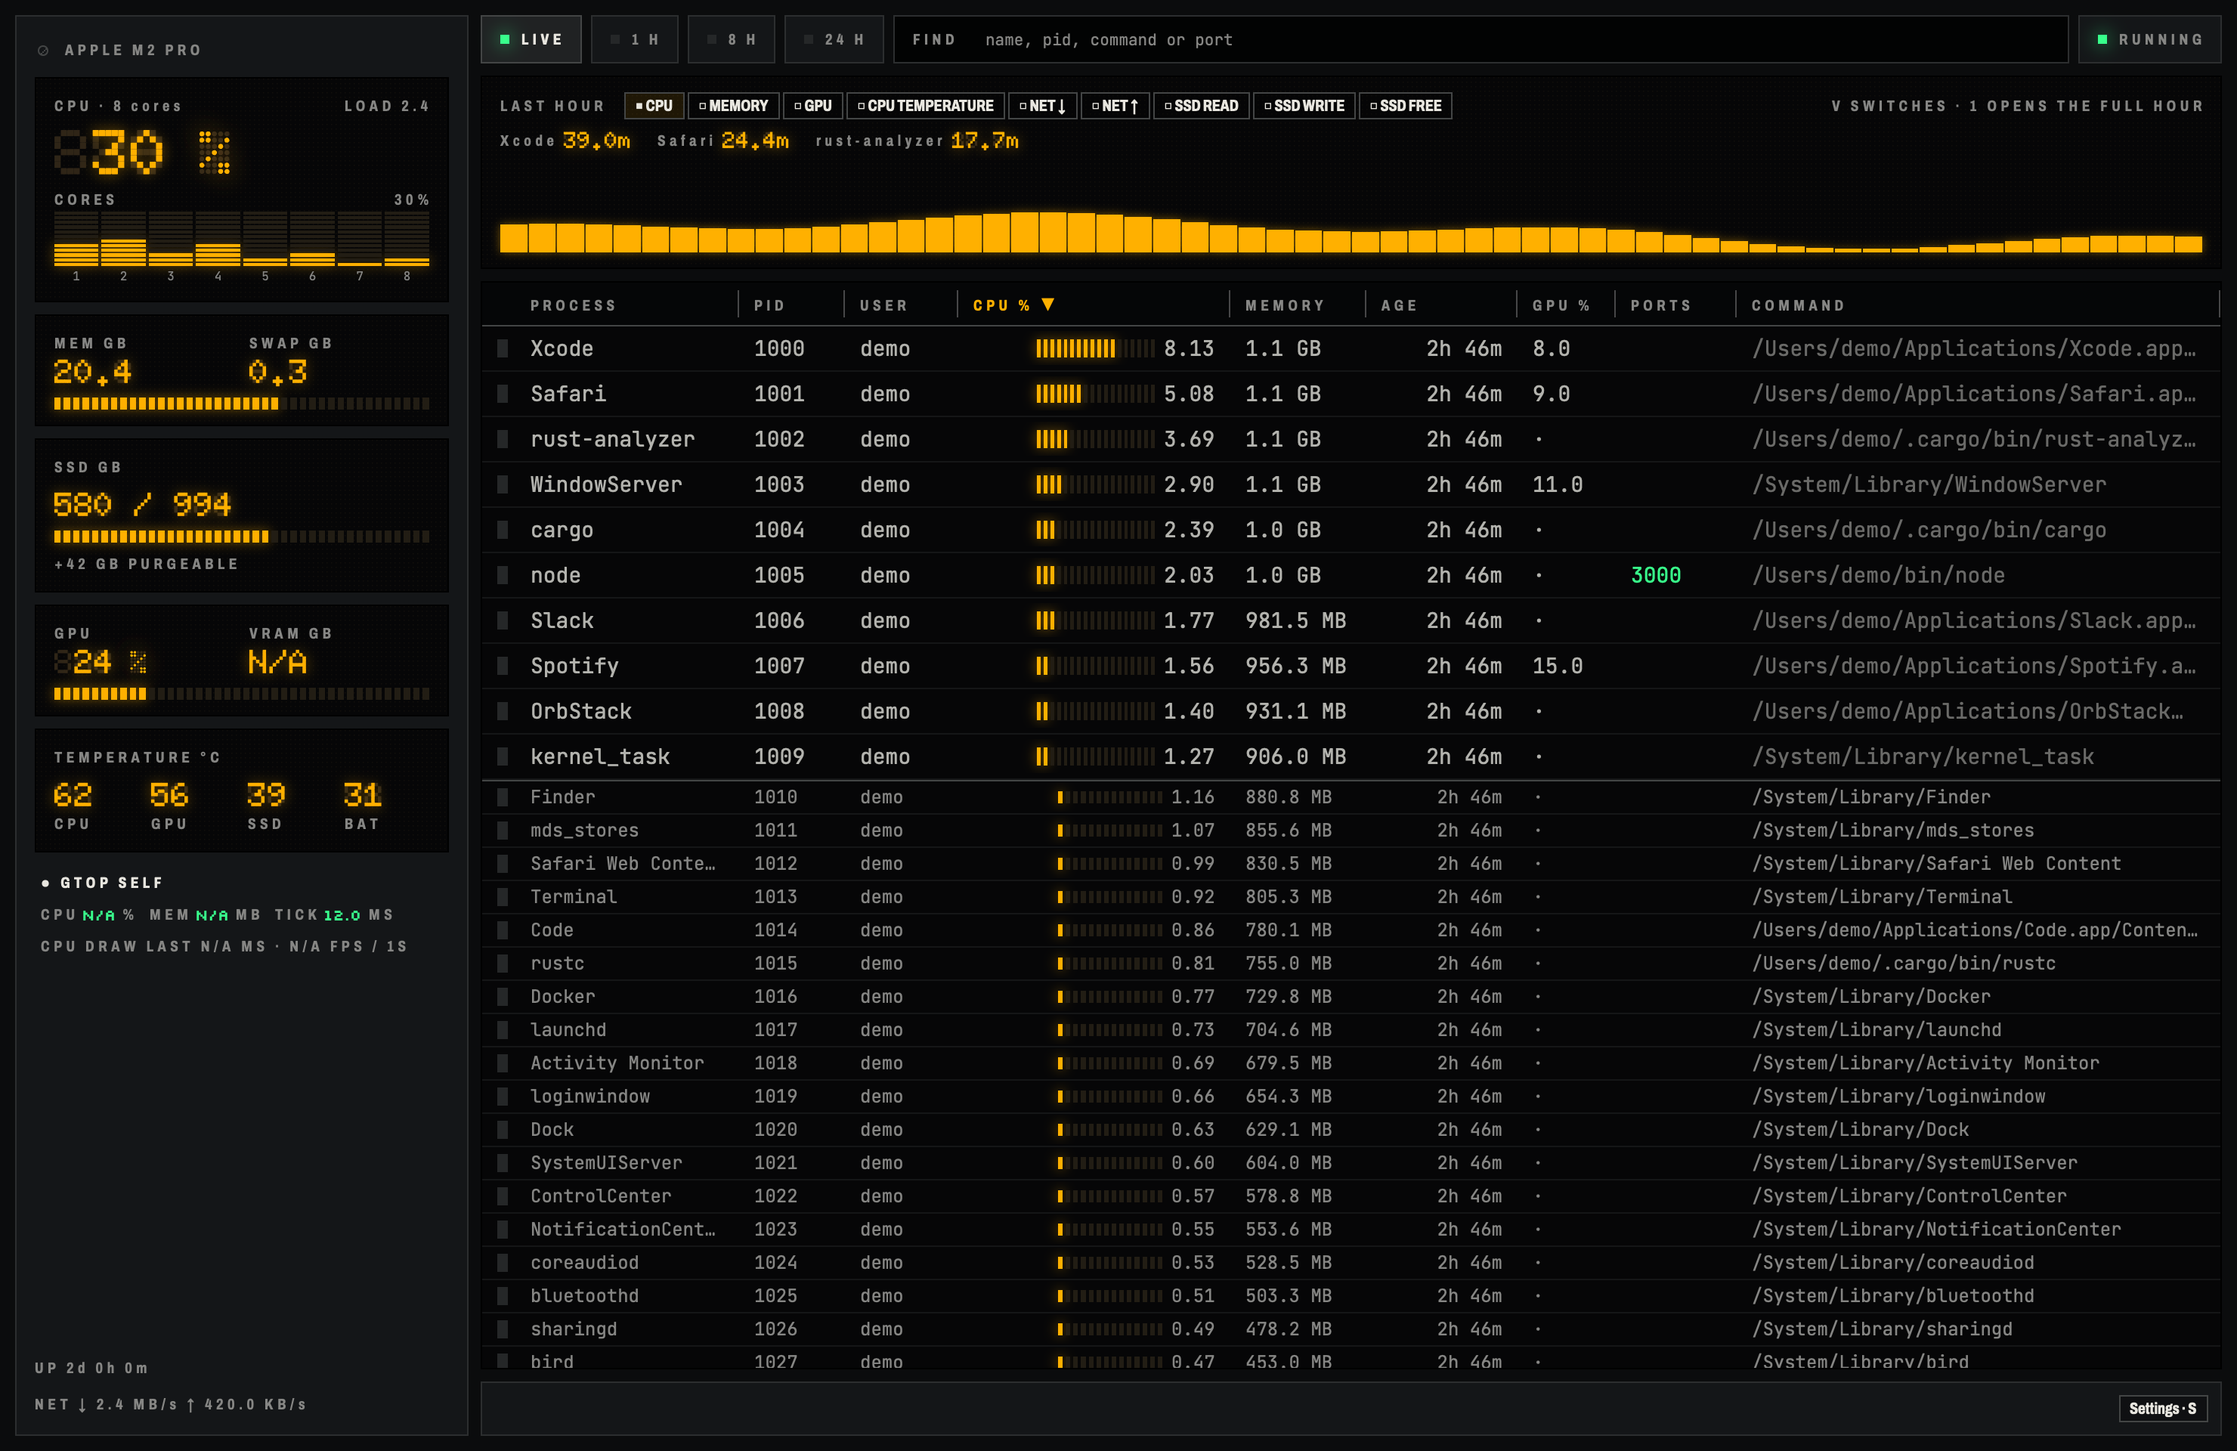
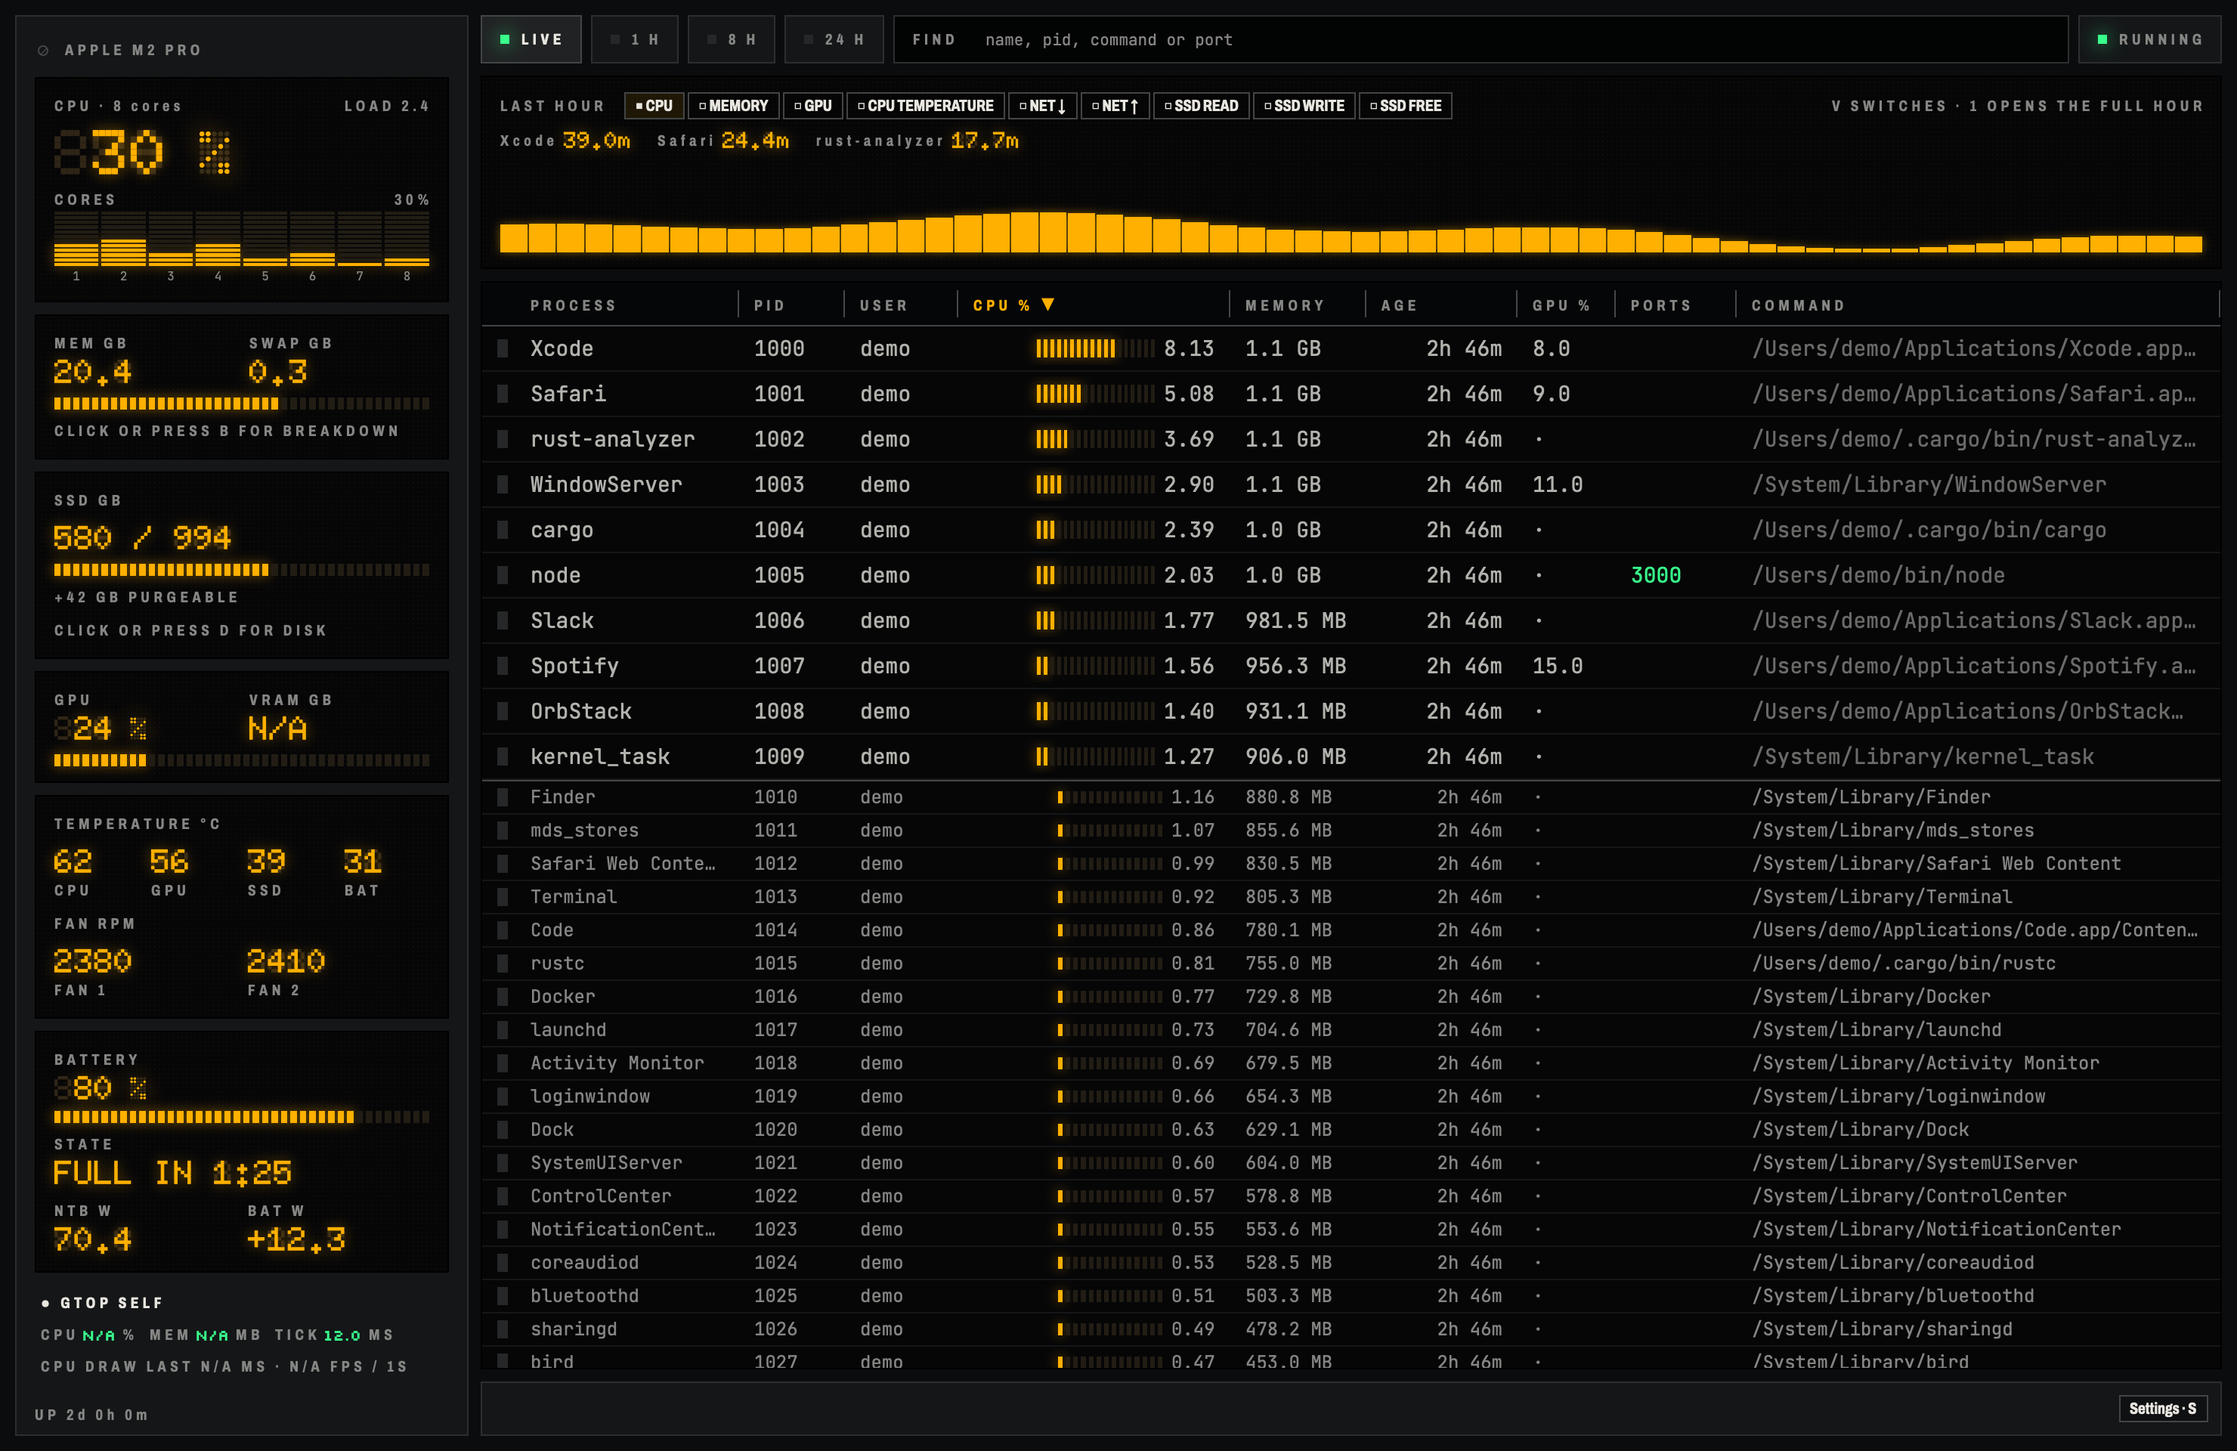
feat(temperature): show fan speeds from AppleSMC
Read F<n>Ac and F<n>Mx through the existing SMC connection and show
each fan under the temperatures. A fan above 90 % of its top speed
lights hot; a stopped fan reads OFF. Fanless Macs show no fan row.

Changed region(s): [[0.0, 0.3125, 0.1865, 0.6875], [0.0311, 0.7188, 0.1554, 0.9062], [0.0, 0.9375, 0.1554, 1.0]]

diff --git a/crates/gtop-core/src/monitoring/smc.rs b/crates/gtop-core/src/monitoring/smc.rs
@@ -1,4 +1,5 @@
-//! Read-only AppleSMC GPU temperature discovery. Key names vary by chip.
+//! Read-only AppleSMC GPU temperature and fan speed discovery. Key names vary
+//! by chip.
 
 use objc2_core_foundation::{CFDictionary, CFRetained};
 use objc2_io_kit::{
@@ -47,10 +48,21 @@ impl Message {
     }
 }
 
+/// An SMC key and its type and size
+type SmcKey = (u32, KeyInfo);
+
+/// SMC keys of one fan: its current speed and, when the SMC has it, its top speed
+#[derive(Debug)]
+struct FanKeys {
+    actual: SmcKey,
+    max: Option<SmcKey>,
+}
+
 #[derive(Debug)]
 pub(super) struct GpuTemperature {
     connection: u32,
     keys: Vec<(u32, KeyInfo)>,
+    fans: Vec<FanKeys>,
 }
 
 impl Drop for GpuTemperature {
@@ -90,7 +102,9 @@ impl GpuTemperature {
         let mut sensor = Self {
             connection,
             keys: Vec::new(),
+            fans: Vec::new(),
         };
+        let mut fans: [(Option<SmcKey>, Option<SmcKey>); 10] = [(None, None); 10];
         let count_key = u32::from_be_bytes(*b"#KEY");
         let info = sensor.info(count_key)?;
         let count = u32::from_be_bytes(sensor.read(count_key, info)?.bytes[..4].try_into().ok()?);
@@ -103,7 +117,16 @@ impl GpuTemperature {
                 continue;
             };
             let key = entry.key;
-            if gpu_key(key) {
+            if let Some((index, is_max)) = fan_key(key) {
+                if let Some(info) = sensor.info(key).filter(|&info| rpm_format(info)) {
+                    let slot = &mut fans[index];
+                    if is_max {
+                        slot.1 = Some((key, info));
+                    } else {
+                        slot.0 = Some((key, info));
+                    }
+                }
+            } else if gpu_key(key) {
                 if let Some(info) = sensor.info(key) {
                     if matches!((info.kind.to_be_bytes(), info.size), (kind, 4) if kind == *b"flt ")
                         || (info.kind == u32::from_be_bytes(*b"sp78") && info.size == 2)
@@ -113,7 +136,32 @@ impl GpuTemperature {
                 }
             }
         }
+        sensor.fans = fans
+            .into_iter()
+            .filter_map(|(actual, max)| {
+                Some(FanKeys {
+                    actual: actual?,
+                    max,
+                })
+            })
+            .collect();
         Some(sensor)
+    }
+
+    /// Current speed of every fan, in fan index order; empty on fanless Macs
+    pub(super) fn fans(&self) -> Vec<super::Fan> {
+        self.fans
+            .iter()
+            .filter_map(|fan| {
+                let (key, info) = fan.actual;
+                Some(super::Fan {
+                    rpm: decode_rpm(info, &self.read(key, info)?.bytes)?,
+                    max_rpm: fan.max.and_then(|(key, info)| {
+                        decode_rpm(info, &self.read(key, info)?.bytes).filter(|&rpm| rpm > 0.)
+                    }),
+                })
+            })
+            .collect()
     }
 
     pub(super) fn hottest(&self) -> Option<f32> {
@@ -156,6 +204,38 @@ impl GpuTemperature {
 fn gpu_key(key: u32) -> bool {
     let bytes = key.to_be_bytes();
     bytes.starts_with(b"Tg") || bytes.starts_with(b"TG")
+}
+
+/// Fan keys are `F<digit>Ac` for the current speed and `F<digit>Mx` for the
+/// top speed. Returns the fan index and whether the key is the top speed.
+fn fan_key(key: u32) -> Option<(usize, bool)> {
+    let [f, digit, a, b] = key.to_be_bytes();
+    if f != b'F' || !digit.is_ascii_digit() {
+        return None;
+    }
+    let index = usize::from(digit - b'0');
+    match [a, b] {
+        [b'A', b'c'] => Some((index, false)),
+        [b'M', b'x'] => Some((index, true)),
+        _ => None,
+    }
+}
+
+/// Apple silicon stores fan speeds as `flt `, Intel Macs as `fpe2`
+fn rpm_format(info: KeyInfo) -> bool {
+    matches!(
+        (&info.kind.to_be_bytes(), info.size),
+        (b"flt ", 4) | (b"fpe2", 2)
+    )
+}
+
+fn decode_rpm(info: KeyInfo, bytes: &[u8; 32]) -> Option<f32> {
+    let value = match (&info.kind.to_be_bytes(), info.size) {
+        (b"flt ", 4) => f32::from_le_bytes(bytes[..4].try_into().ok()?),
+        (b"fpe2", 2) => f32::from(u16::from_be_bytes(bytes[..2].try_into().ok()?)) / 4.,
+        _ => return None,
+    };
+    (value.is_finite() && (0.0..20_000.0).contains(&value)).then_some(value)
 }
 
 fn decode(info: KeyInfo, bytes: &[u8; 32]) -> Option<f32> {
@@ -215,6 +295,40 @@ mod tests {
         assert!(gpu_key(u32::from_be_bytes(*b"Tg0f")));
         assert!(gpu_key(u32::from_be_bytes(*b"TG0D")));
         assert!(!gpu_key(u32::from_be_bytes(*b"Tp01")));
+    }
+
+    #[test]
+    fn finds_fan_keys_and_decodes_fan_speeds() {
+        let key = |name: &[u8; 4]| u32::from_be_bytes(*name);
+        assert_eq!(fan_key(key(b"F0Ac")), Some((0, false)));
+        assert_eq!(fan_key(key(b"F1Mx")), Some((1, true)));
+        for other in [b"F0Mn", b"FNum", b"Tg0f", b"FxAc"] {
+            assert_eq!(fan_key(key(other)), None);
+        }
+        let float = KeyInfo {
+            size: 4,
+            kind: key(b"flt "),
+            attributes: 0,
+        };
+        let fixed = KeyInfo {
+            size: 2,
+            kind: key(b"fpe2"),
+            attributes: 0,
+        };
+        assert!(rpm_format(float) && rpm_format(fixed));
+        assert!(!rpm_format(KeyInfo { size: 2, ..float }));
+        let mut bytes = [0; 32];
+        bytes[..4].copy_from_slice(&2400f32.to_le_bytes());
+        assert_eq!(decode_rpm(float, &bytes), Some(2400.));
+        bytes[..4].copy_from_slice(&0f32.to_le_bytes());
+        assert_eq!(decode_rpm(float, &bytes), Some(0.));
+        for value in [f32::NAN, -1., 20_000.] {
+            bytes[..4].copy_from_slice(&value.to_le_bytes());
+            assert_eq!(decode_rpm(float, &bytes), None);
+        }
+        bytes[..2].copy_from_slice(&(1800u16 * 4).to_be_bytes());
+        assert_eq!(decode_rpm(fixed, &bytes), Some(1800.));
+        assert_eq!(decode_rpm(KeyInfo { size: 4, ..fixed }, &bytes), None);
     }
 
     #[test]

diff --git a/crates/gtop/src/rack.rs b/crates/gtop/src/rack.rs
@@ -1139,6 +1139,15 @@ fn core_banks(usage: &[f32], topology: &CpuTopology, scale: palette::CpuScale, t
     }
     banks
 }
+/// Fan speed text, and whether the fan runs above 90 % of its top speed
+fn fan_readout(fan: &gtop_core::monitoring::Fan) -> (String, bool) {
+    if fan.rpm < 1. {
+        return ("OFF".into(), false);
+    }
+    let hot = fan.max_rpm.is_some_and(|max| fan.rpm > max * 0.9);
+    (format!("{:.0}", fan.rpm), hot)
+}
+
 fn readout(name: &str, value: String, t: &Tokens) -> Div {
     let display = if let Some(number) = value.strip_suffix('%') {
         lit_unit(number.to_string(), '%', 22., false, t)
@@ -1860,27 +1869,43 @@ impl Monitor {
                 )
                 .child(segments(util.unwrap_or(0.), 40, t)),
         );
-        tower = tower.child(win(t).child(label("TEMPERATURE °C", t)).child(
-            div().flex().gap(px(8.)).children(
-                [("CPU", 90.), ("GPU", 90.), ("SSD", 70.), ("Battery", 45.)].map(
-                    |(name, limit)| {
-                        let value = stats
-                            .temperatures
-                            .iter()
-                            .find(|v| v.name == name)
-                            .map(|v| v.celsius);
-                        div()
-                            .flex_1()
-                            .child(
-                                value
-                                    .map(|value| lit(format!("{value:2.0}"), 22., value > limit, t))
-                                    .unwrap_or_else(|| lit("N/A".into(), 22., false, t)),
-                            )
-                            .child(label(if name == "Battery" { "BAT" } else { name }, t))
-                    },
-                ),
-            ),
-        ));
+        tower = tower.child(
+            win(t)
+                .child(label("TEMPERATURE °C", t))
+                .child(div().flex().gap(px(8.)).children(
+                    [("CPU", 90.), ("GPU", 90.), ("SSD", 70.), ("Battery", 45.)].map(
+                        |(name, limit)| {
+                            let value = stats
+                                .temperatures
+                                .iter()
+                                .find(|v| v.name == name)
+                                .map(|v| v.celsius);
+                            div()
+                                .flex_1()
+                                .child(
+                                    value
+                                        .map(|value| {
+                                            lit(format!("{value:2.0}"), 22., value > limit, t)
+                                        })
+                                        .unwrap_or_else(|| lit("N/A".into(), 22., false, t)),
+                                )
+                                .child(label(if name == "Battery" { "BAT" } else { name }, t))
+                        },
+                    ),
+                ))
+                .when(!stats.fans.is_empty(), |w| {
+                    w.child(label("FAN RPM", t))
+                        .child(div().flex().gap(px(8.)).children(
+                            stats.fans.iter().enumerate().map(|(index, fan)| {
+                                let (text, hot) = fan_readout(fan);
+                                div()
+                                    .flex_1()
+                                    .child(lit(text, 22., hot, t))
+                                    .child(label(format!("FAN {}", index + 1), t))
+                            }),
+                        ))
+                }),
+        );
         if let Some(power) = stats.power.as_ref() {
             let [state, system_watts, battery_watts] = battery_readouts(power);
             tower = tower.child(

diff --git a/crates/gtop-core/src/monitoring/temperature_monitor.rs b/crates/gtop-core/src/monitoring/temperature_monitor.rs
@@ -5,7 +5,7 @@
 //! is sorted into a component group by its label, and the panel shows the
 //! hottest sensor of every group.
 
-use super::Temperature;
+use super::{Fan, Temperature};
 use std::time::{Duration, Instant};
 use sysinfo::Components;
 
@@ -30,6 +30,7 @@ pub struct TemperatureMonitor {
     groups: Vec<Option<usize>>,
     refreshed_at: Option<Instant>,
     readings: Vec<Temperature>,
+    fans: Vec<Fan>,
     #[cfg(target_os = "macos")]
     gpu: Option<super::smc::GpuTemperature>,
 }
@@ -53,6 +54,7 @@ impl TemperatureMonitor {
             groups,
             refreshed_at: None,
             readings: Vec::new(),
+            fans: Vec::new(),
             #[cfg(target_os = "macos")]
             gpu: super::smc::GpuTemperature::new(),
         }
@@ -77,6 +79,11 @@ impl TemperatureMonitor {
         }
 
         #[cfg(target_os = "macos")]
+        {
+            self.fans = self.gpu.as_ref().map(|smc| smc.fans()).unwrap_or_default();
+        }
+
+        #[cfg(target_os = "macos")]
         if let Some(celsius) = self.gpu.as_ref().and_then(|gpu| gpu.hottest()) {
             hottest[1] = Some(hottest[1].map_or(celsius, |h| h.max(celsius)));
         }
@@ -93,6 +100,11 @@ impl TemperatureMonitor {
             .collect();
         self.refreshed_at = Some(Instant::now());
         self.readings.clone()
+    }
+
+    /// Fan speeds from the last `collect`; empty when the machine reports no fan
+    pub fn fans(&self) -> Vec<Fan> {
+        self.fans.clone()
     }
 }
 
@@ -116,6 +128,19 @@ mod tests {
         assert_eq!(name("NAND CH0 temp"), Some("SSD"));
         assert_eq!(name("gas gauge battery"), Some("Battery"));
         assert_eq!(name("PMU tdev1"), None);
+    }
+
+    #[test]
+    #[cfg(target_os = "macos")]
+    fn fan_speeds_are_plausible() {
+        let mut monitor = TemperatureMonitor::new();
+        monitor.collect();
+        for fan in monitor.fans() {
+            assert!((0.0..20_000.0).contains(&fan.rpm), "fan reads {}", fan.rpm);
+            if let Some(max) = fan.max_rpm {
+                assert!(max > 0., "top speed {max}");
+            }
+        }
     }
 
     #[test]

diff --git a/crates/gtop-core/src/monitoring/types.rs b/crates/gtop-core/src/monitoring/types.rs
@@ -81,6 +81,15 @@ pub struct Temperature {
     pub celsius: f32,
 }
 
+/// Speed of one cooling fan
+#[derive(Serialize, Debug, Clone, PartialEq)]
+pub struct Fan {
+    /// Current speed in revolutions per minute; 0 when the fan is stopped
+    pub rpm: f32,
+    /// Top speed in revolutions per minute, when the platform reports it
+    pub max_rpm: Option<f32>,
+}
+
 /// Battery charge and power readings exposed by the platform.
 #[derive(Serialize, Debug, Clone, PartialEq)]
 pub struct Power {
@@ -147,6 +156,8 @@ pub struct SystemStats {
     pub gpus: Vec<GpuInfo>,
     /// Hottest reading per component group; empty when no sensor is readable
     pub temperatures: Vec<Temperature>,
+    /// Fan speeds in fan order; empty on fanless machines and outside macOS
+    pub fans: Vec<Fan>,
     /// Battery and power readings, or `None` when no battery is available.
     pub power: Option<Power>,
 }

diff --git a/crates/gtop-core/src/monitoring/system_monitor.rs b/crates/gtop-core/src/monitoring/system_monitor.rs
@@ -170,6 +170,7 @@ impl SystemMonitor {
             disk_purgeable_bytes: disk_stats.purgeable_bytes,
             gpus: self.gpu_monitor.collect(),
             temperatures: self.temperature_monitor.collect(),
+            fans: self.temperature_monitor.fans(),
             #[cfg(target_os = "macos")]
             power: super::iokit::read_battery(_power_source_time_read)
                 .as_ref()

diff --git a/crates/gtop/src/screenshots.rs b/crates/gtop/src/screenshots.rs
@@ -123,6 +123,12 @@ fn snapshot() -> Snapshot {
             }
         }),
     );
+    s.fans = [2380., 2410.]
+        .map(|rpm| gtop_core::monitoring::Fan {
+            rpm,
+            max_rpm: Some(5900.),
+        })
+        .into();
     s.gpus = vec![gtop_core::monitoring::GpuInfo {
         name: "Apple M2 Pro".into(),
         vendor: "Apple".into(),

diff --git a/crates/gtop/src/test_data.rs b/crates/gtop/src/test_data.rs
@@ -68,6 +68,7 @@ pub fn snapshot() -> Snapshot {
                 name: "CPU".into(),
                 celsius: 80.,
             }],
+            fans: vec![],
             power: Some(gtop_core::monitoring::Power {
                 percent: 80,
                 state: gtop_core::monitoring::BatteryState::Charging {
